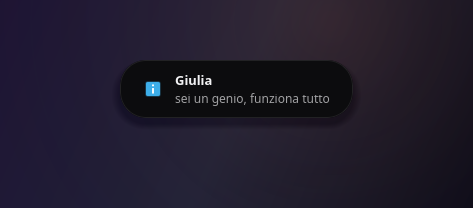
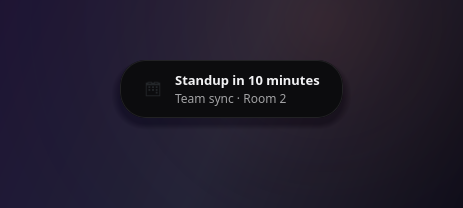
docs: neutral notification screenshot

Changed region(s): [[0.3024, 0.3462, 0.6955, 0.5192]]

diff --git a/scripts/render-shots.py b/scripts/render-shots.py
@@ -208,8 +208,8 @@ def main():
 
     # notification peek
     peek2 = Peek()
-    peek2.show_notification("Messages", "Giulia",
-                            "sei un genio, funziona tutto", "")
+    peek2.show_notification("Calendar", "Standup in 10 minutes",
+                            "Team sync · Room 2", "view-calendar")
     snap(peek2, "notification", 26, 0.9)
 
     # expanded player, all modules on
